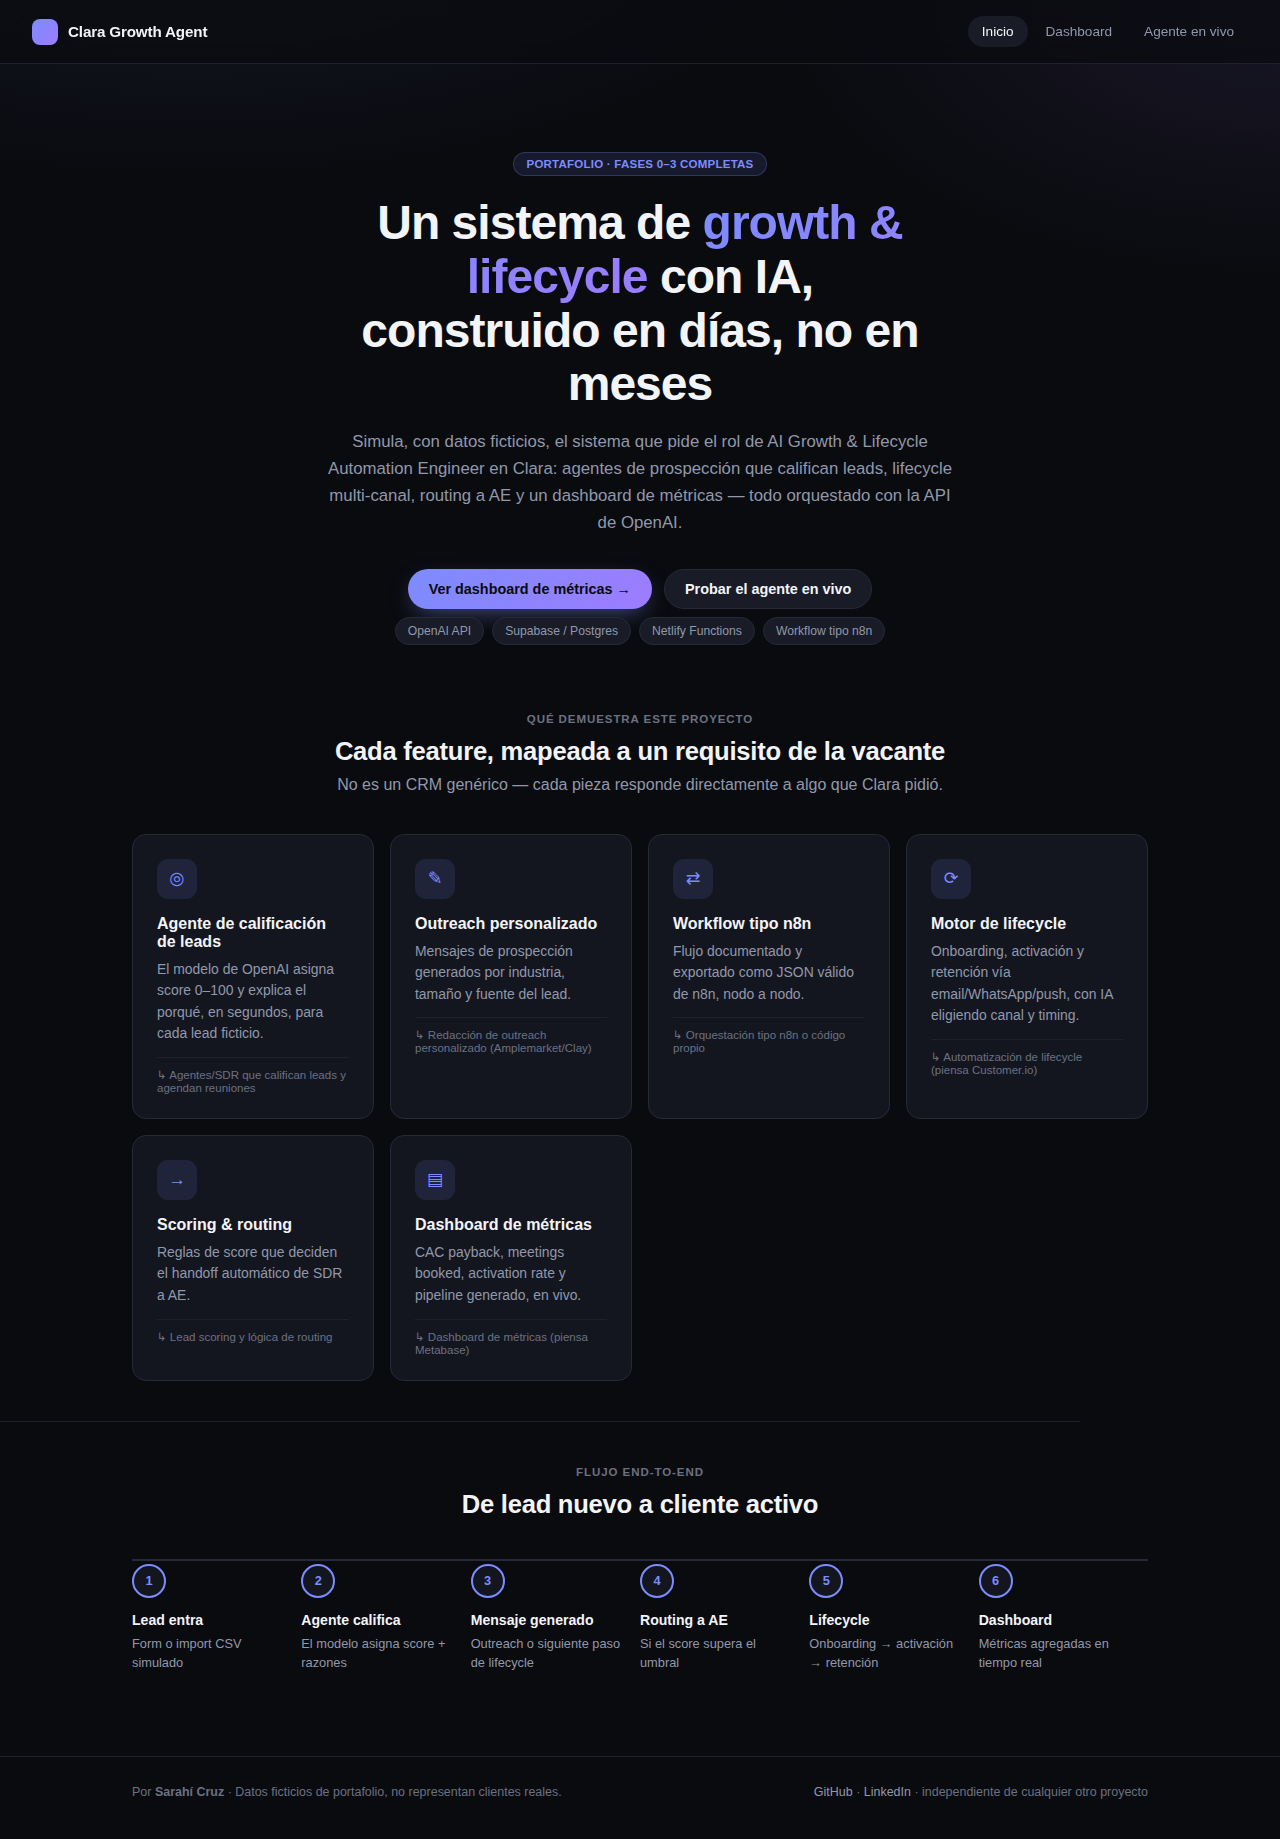
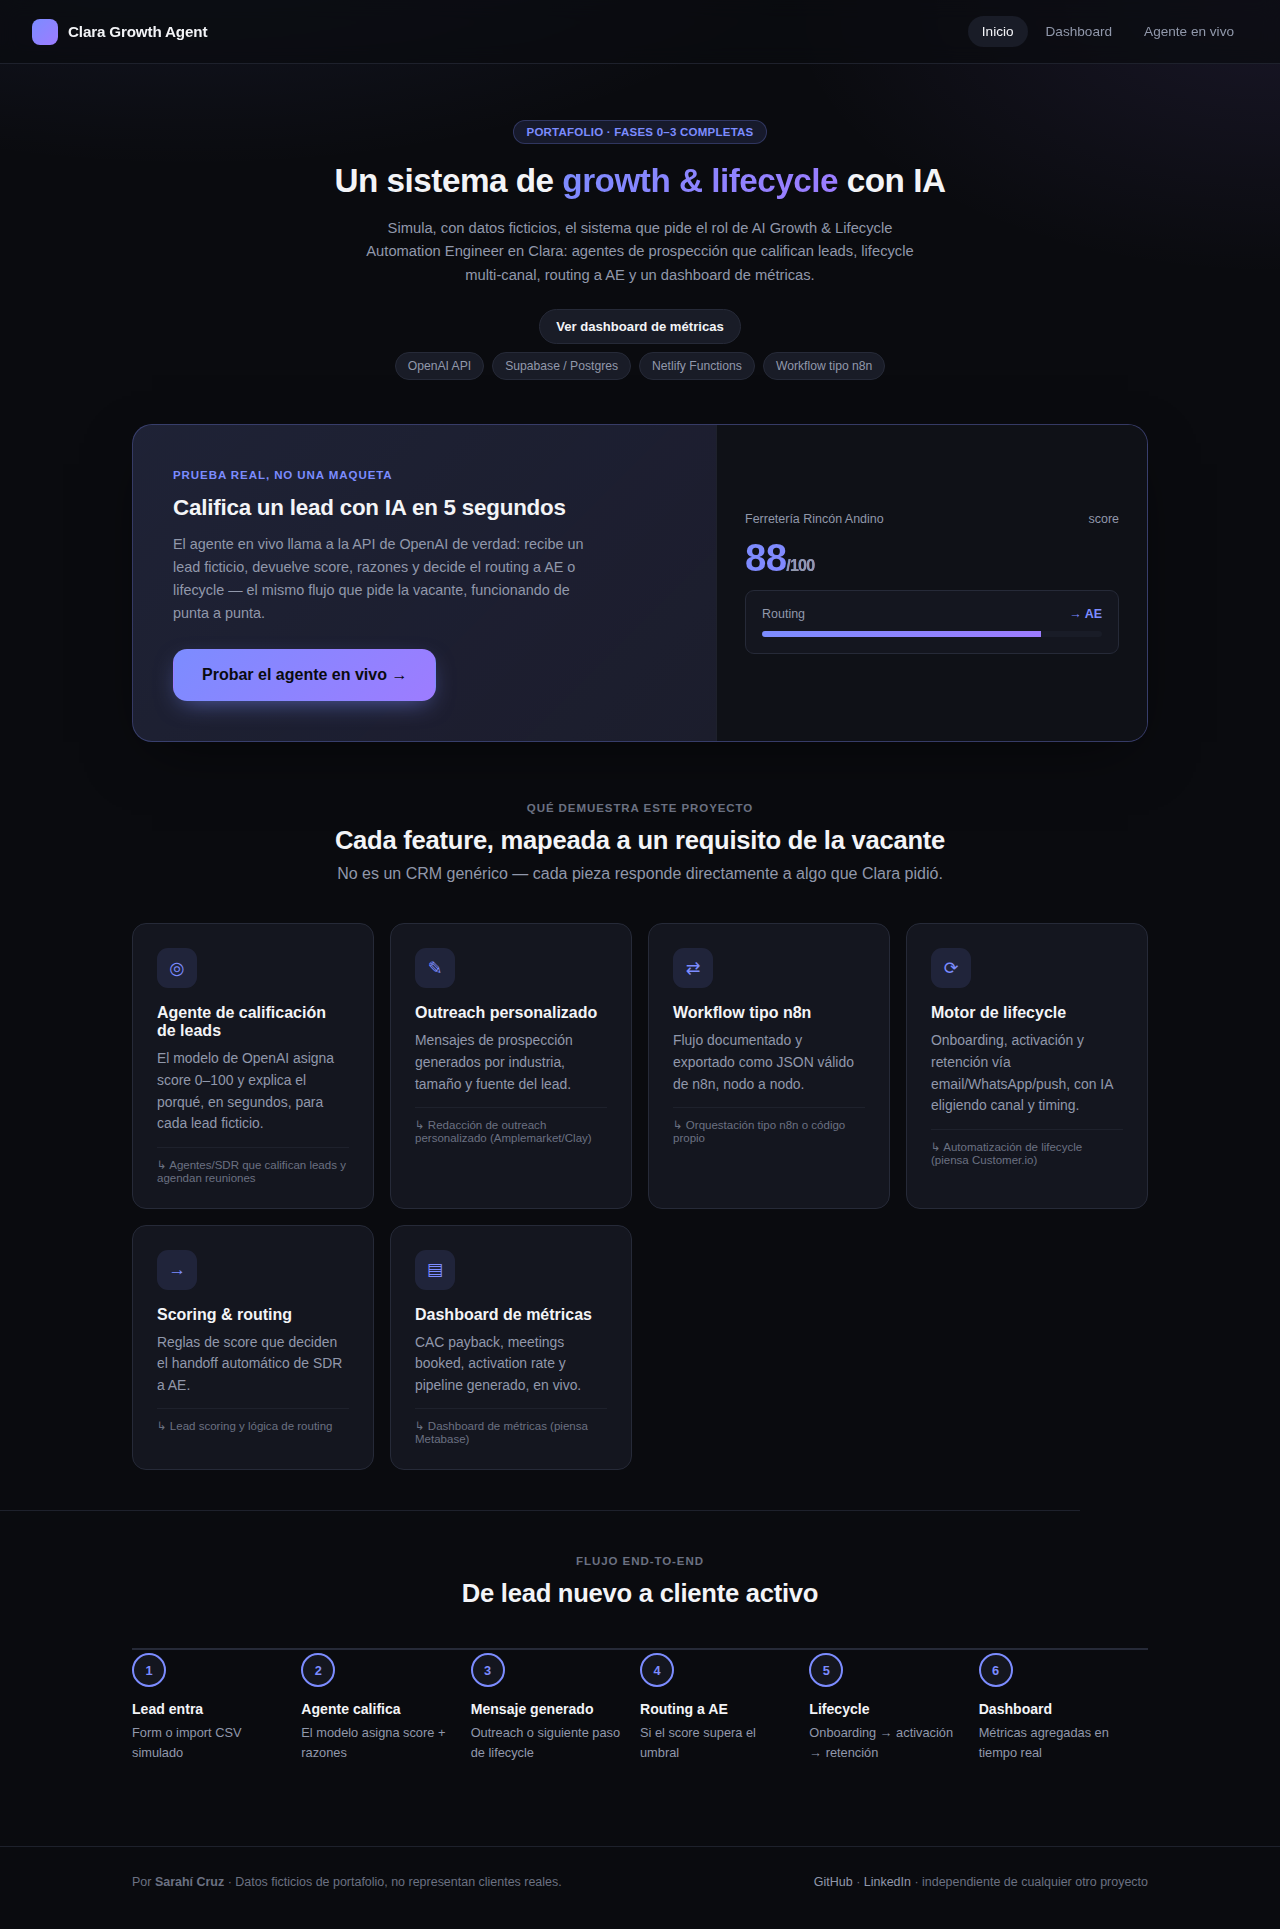
Rediseno del hero: mas compacto, CTA del agente en vivo destacado
- Hero reducido (menos padding, headline y lead mas pequenos) para
  que no ocupe toda la pantalla y se sienta menos "landing generica"
- Nueva seccion "agent-showcase": card grande con copy + preview mock
  del resultado de scoring, con el boton "Probar el agente en vivo"
  como CTA principal jumbo, justo debajo del fold
- Nav responsive: el nombre de marca se oculta en mobile para que los
  links quepan sin apretarse

Claude-Session: https://claude.ai/code/session_01N2B1UbG9DVTxaJyeua4awE

diff --git a/public/index.html b/public/index.html
@@ -7,12 +7,12 @@
   <link rel="stylesheet" href="./css/theme.css" />
   <title>Clara Growth & Lifecycle Agent — Demo</title>
   <style>
-    .hero { padding: 88px 0 64px; text-align: center; }
+    .hero { padding: 56px 0 8px; text-align: center; }
     .hero h1 {
-      font-size: clamp(2rem, 4.2vw, 3rem);
-      line-height: 1.12;
-      letter-spacing: -0.02em;
-      margin: 20px 0 18px;
+      font-size: clamp(1.5rem, 2.6vw, 2.1rem);
+      line-height: 1.28;
+      letter-spacing: -0.015em;
+      margin: 16px 0 14px;
     }
     .hero h1 .grad {
       background: linear-gradient(135deg, var(--accent), var(--accent-2));
@@ -21,19 +21,92 @@
       color: transparent;
     }
     .hero p.lead {
-      max-width: 640px;
+      max-width: 560px;
       margin: 0 auto;
       color: var(--muted);
-      font-size: 1.05rem;
+      font-size: 0.92rem;
       line-height: 1.6;
     }
     .hero .ctas {
       display: flex;
       justify-content: center;
-      gap: 12px;
-      margin-top: 32px;
+      gap: 10px;
+      margin-top: 22px;
       flex-wrap: wrap;
     }
+    .hero .ctas .btn-ghost { font-size: 0.82rem; padding: 9px 16px; }
+
+    /* ---------- agent showcase (CTA principal) ---------- */
+    .agent-showcase {
+      display: grid;
+      grid-template-columns: 1.15fr 0.85fr;
+      border-radius: var(--radius-lg);
+      border: 1px solid rgba(124, 140, 255, 0.28);
+      background:
+        linear-gradient(135deg, rgba(124, 140, 255, 0.10), rgba(157, 124, 255, 0.04)),
+        var(--surface);
+      overflow: hidden;
+      margin: 36px 0 56px;
+      box-shadow: var(--shadow);
+    }
+    .agent-showcase .copy { padding: 40px 40px; }
+    .agent-showcase .copy .eyebrow { color: var(--accent); }
+    .agent-showcase h2 {
+      font-size: 1.4rem;
+      letter-spacing: -0.01em;
+      margin: 12px 0 12px;
+    }
+    .agent-showcase p {
+      color: var(--muted);
+      font-size: 0.9rem;
+      line-height: 1.6;
+      margin: 0 0 24px;
+      max-width: 420px;
+    }
+    .btn-jumbo {
+      font-size: 1rem;
+      padding: 16px 28px;
+      border-radius: 14px;
+    }
+    .agent-showcase .preview {
+      background: var(--bg-soft);
+      border-left: 1px solid var(--border-soft);
+      padding: 28px;
+      display: flex;
+      flex-direction: column;
+      justify-content: center;
+      gap: 10px;
+    }
+    .preview .mock-row {
+      display: flex;
+      justify-content: space-between;
+      align-items: center;
+      font-size: 0.78rem;
+      color: var(--muted);
+    }
+    .preview .mock-score {
+      font-size: 2.4rem;
+      font-weight: 700;
+      letter-spacing: -0.02em;
+      background: linear-gradient(135deg, var(--accent), var(--accent-2));
+      -webkit-background-clip: text;
+      background-clip: text;
+      color: transparent;
+    }
+    .preview .mock-card {
+      background: var(--surface);
+      border: 1px solid var(--border);
+      border-radius: var(--radius-sm);
+      padding: 16px;
+    }
+    .preview .mock-bar { height: 6px; border-radius: 4px; background: var(--surface-2); overflow: hidden; margin-top: 10px; }
+    .preview .mock-bar span { display: block; height: 100%; width: 82%; background: linear-gradient(90deg, var(--accent), var(--accent-2)); }
+
+    @media (max-width: 760px) {
+      .agent-showcase { grid-template-columns: 1fr; }
+      .agent-showcase .preview { border-left: none; border-top: 1px solid var(--border-soft); }
+    }
+
     .section-head { text-align: center; max-width: 620px; margin: 0 auto 40px; }
     .section-head h2 { font-size: 1.6rem; letter-spacing: -0.01em; margin: 10px 0 10px; }
     .section-head p { color: var(--muted); margin: 0; }
@@ -105,7 +178,7 @@
 </head>
 <body>
   <header class="topnav">
-    <a class="brand" href="./index.html"><span class="mark"></span> Clara Growth Agent</a>
+    <a class="brand" href="./index.html"><span class="mark"></span><span class="brand-text">Clara Growth Agent</span></a>
     <nav>
       <a href="./index.html" class="current">Inicio</a>
       <a href="./dashboard.html">Dashboard</a>
@@ -116,22 +189,43 @@
   <main>
     <section class="hero shell-narrow">
       <span class="badge">Portafolio · Fases 0–3 completas</span>
-      <h1>Un sistema de <span class="grad">growth &amp; lifecycle</span> con IA,<br />construido en días, no en meses</h1>
+      <h1>Un sistema de <span class="grad">growth &amp; lifecycle</span> con IA</h1>
       <p class="lead">
         Simula, con datos ficticios, el sistema que pide el rol de AI Growth &amp;
         Lifecycle Automation Engineer en Clara: agentes de prospección que califican
-        leads, lifecycle multi-canal, routing a AE y un dashboard de métricas — todo
-        orquestado con la API de OpenAI.
+        leads, lifecycle multi-canal, routing a AE y un dashboard de métricas.
       </p>
       <div class="ctas">
-        <a class="btn btn-primary" href="./dashboard.html">Ver dashboard de métricas →</a>
-        <a class="btn btn-ghost" href="./agent.html">Probar el agente en vivo</a>
+        <a class="btn btn-ghost" href="./dashboard.html">Ver dashboard de métricas</a>
       </div>
       <div class="stack-row">
         <span class="pill">OpenAI API</span>
         <span class="pill">Supabase / Postgres</span>
         <span class="pill">Netlify Functions</span>
         <span class="pill">Workflow tipo n8n</span>
+      </div>
+    </section>
+
+    <section class="shell">
+      <div class="agent-showcase">
+        <div class="copy">
+          <span class="eyebrow">Prueba real, no una maqueta</span>
+          <h2>Califica un lead con IA en 5 segundos</h2>
+          <p>
+            El agente en vivo llama a la API de OpenAI de verdad: recibe un lead
+            ficticio, devuelve score, razones y decide el routing a AE o lifecycle —
+            el mismo flujo que pide la vacante, funcionando de punta a punta.
+          </p>
+          <a class="btn btn-primary btn-jumbo" href="./agent.html">Probar el agente en vivo →</a>
+        </div>
+        <div class="preview">
+          <div class="mock-row"><span>Ferretería Rincón Andino</span><span>score</span></div>
+          <div class="mock-score">88<span style="font-size:1rem;color:var(--muted)">/100</span></div>
+          <div class="mock-card">
+            <div class="mock-row"><span>Routing</span><span style="color:var(--accent);font-weight:600">→ AE</span></div>
+            <div class="mock-bar"><span></span></div>
+          </div>
+        </div>
       </div>
     </section>
 

diff --git a/public/css/theme.css b/public/css/theme.css
@@ -94,6 +94,12 @@ a { color: var(--accent); }
   background: var(--surface-2);
 }
 
+@media (max-width: 560px) {
+  .topnav { padding: 14px 18px; }
+  .topnav .brand .brand-text { display: none; }
+  .topnav nav a { padding: 7px 10px; font-size: 0.78rem; }
+}
+
 /* ---------- shell / containers ---------- */
 .shell { max-width: 1080px; margin: 0 auto; padding: 0 32px; }
 .shell-narrow { max-width: 680px; margin: 0 auto; padding: 0 32px; }

diff --git a/public/dashboard.html b/public/dashboard.html
@@ -56,7 +56,7 @@
 </head>
 <body>
   <header class="topnav">
-    <a class="brand" href="./index.html"><span class="mark"></span> Clara Growth Agent</a>
+    <a class="brand" href="./index.html"><span class="mark"></span><span class="brand-text">Clara Growth Agent</span></a>
     <nav>
       <a href="./index.html">Inicio</a>
       <a href="./dashboard.html" class="current">Dashboard</a>

diff --git a/public/agent.html b/public/agent.html
@@ -55,7 +55,7 @@
 </head>
 <body>
   <header class="topnav">
-    <a class="brand" href="./index.html"><span class="mark"></span> Clara Growth Agent</a>
+    <a class="brand" href="./index.html"><span class="mark"></span><span class="brand-text">Clara Growth Agent</span></a>
     <nav>
       <a href="./index.html">Inicio</a>
       <a href="./dashboard.html">Dashboard</a>
